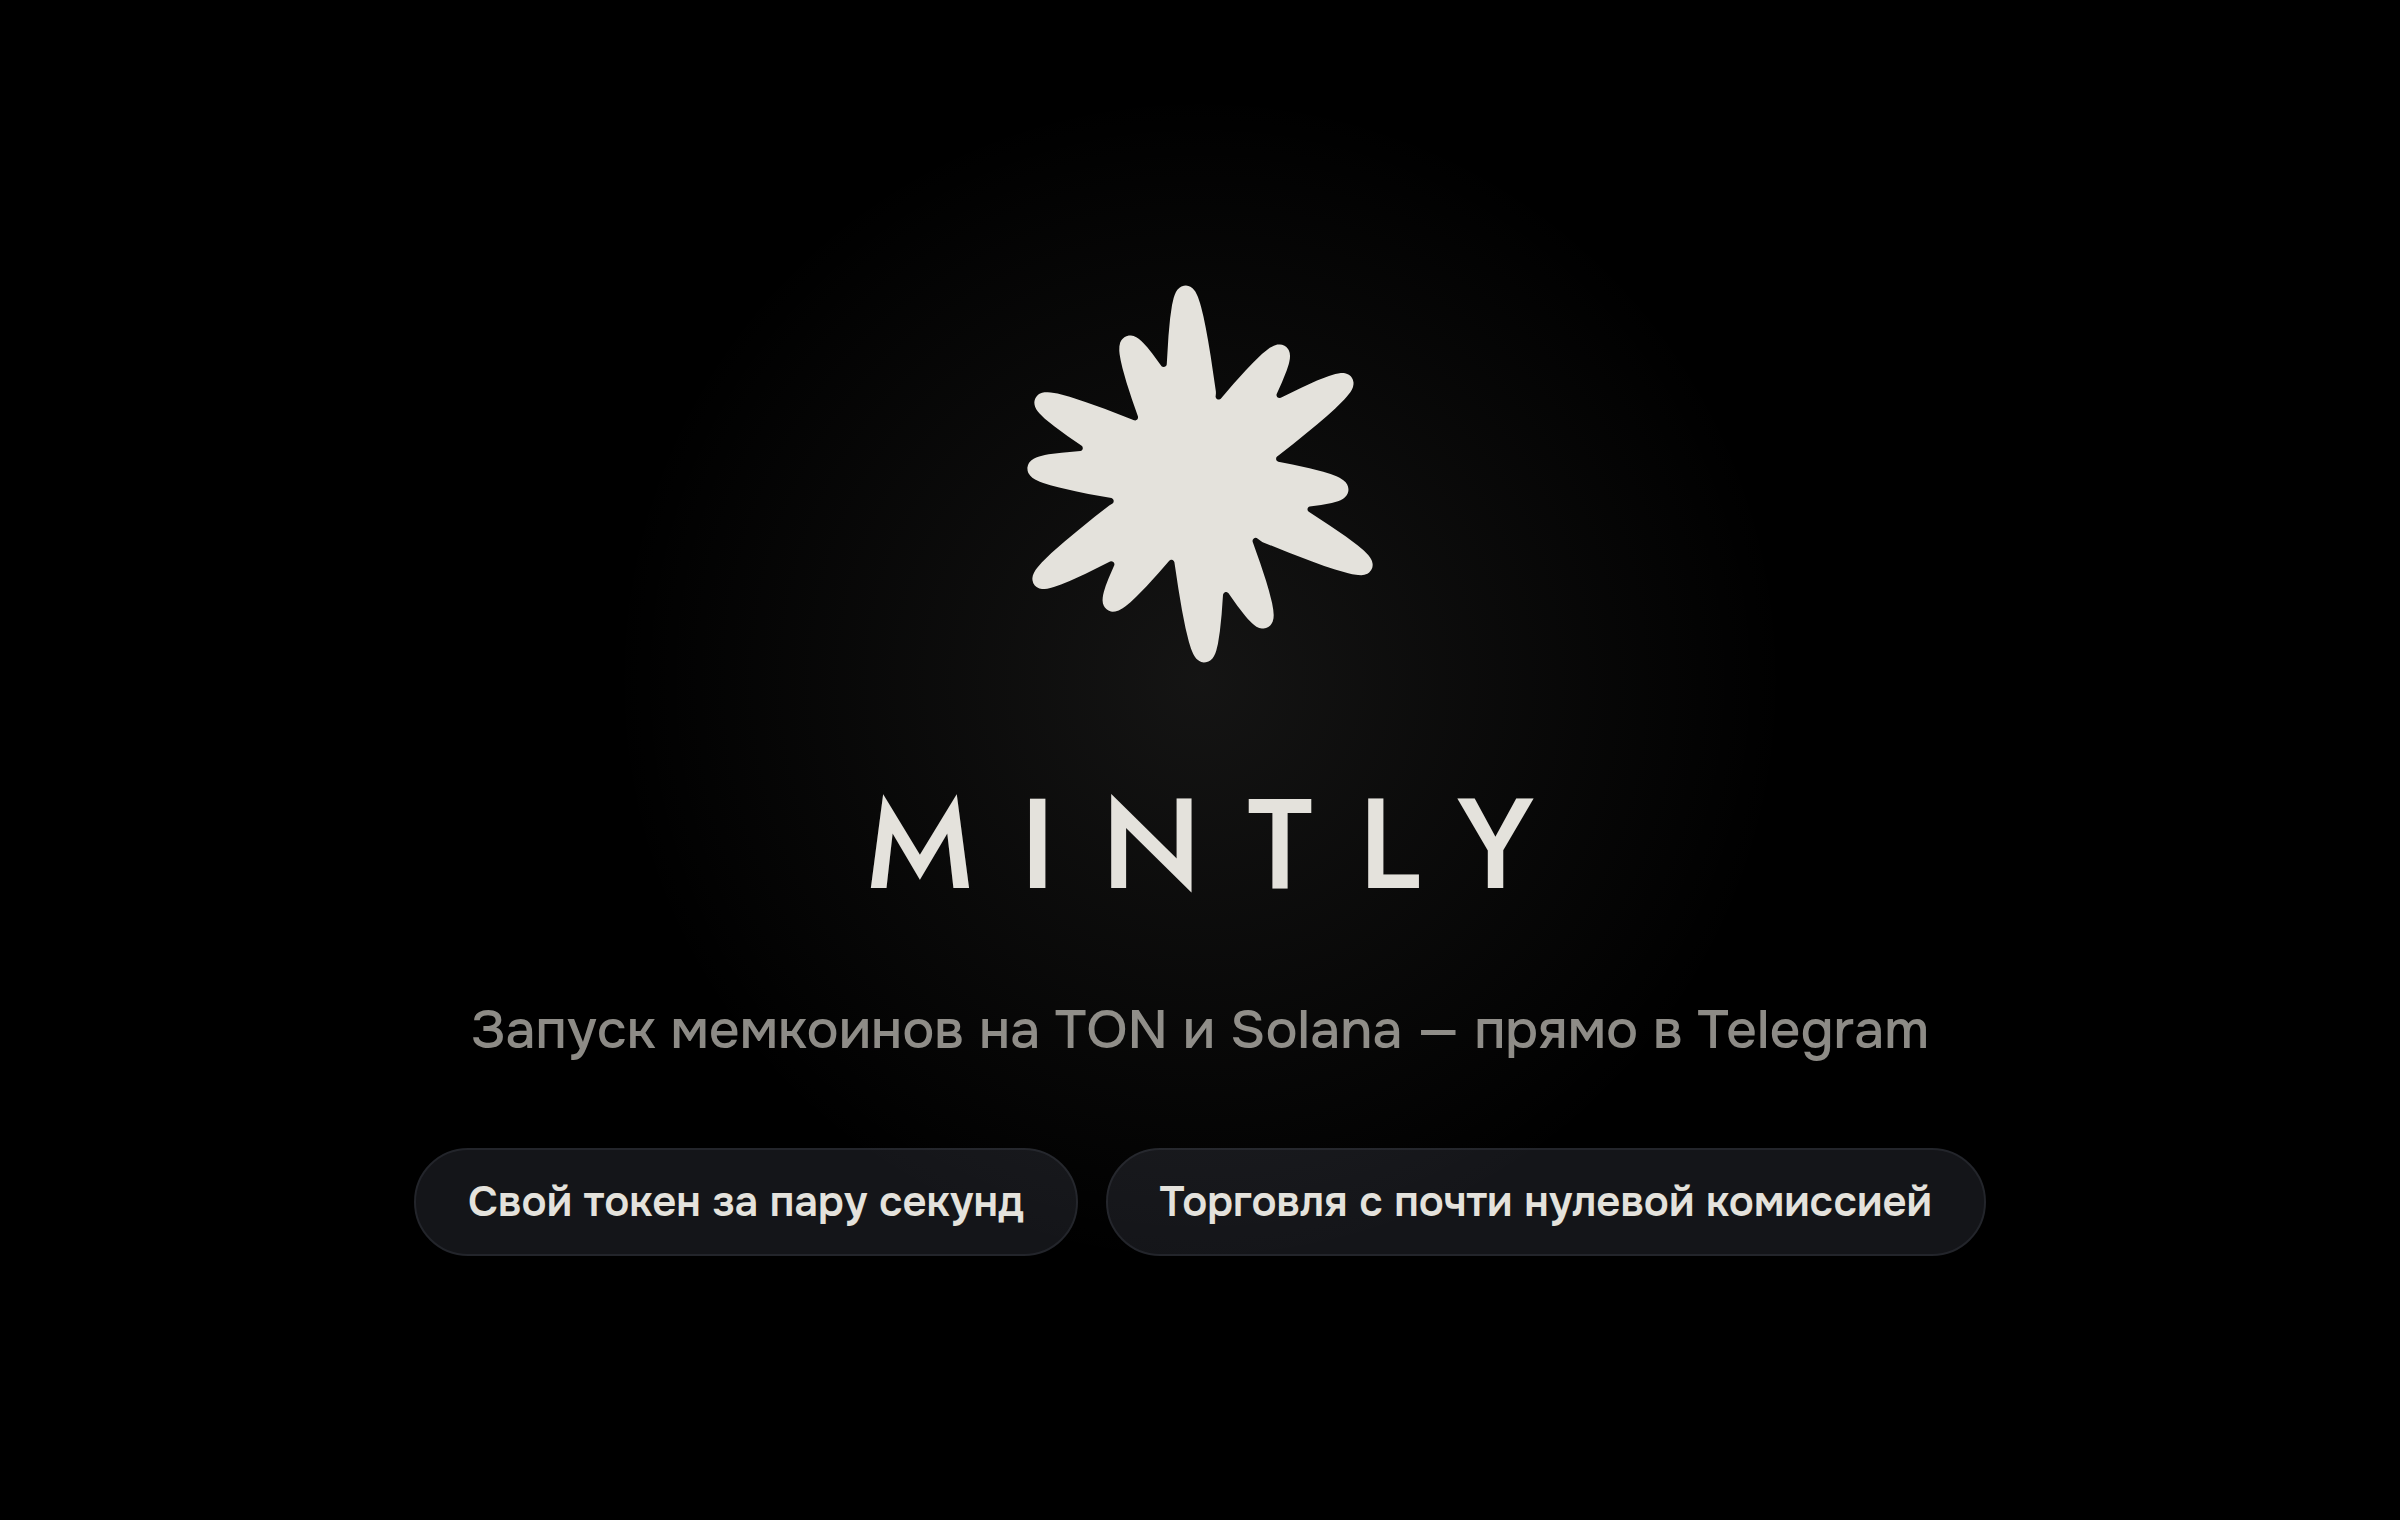
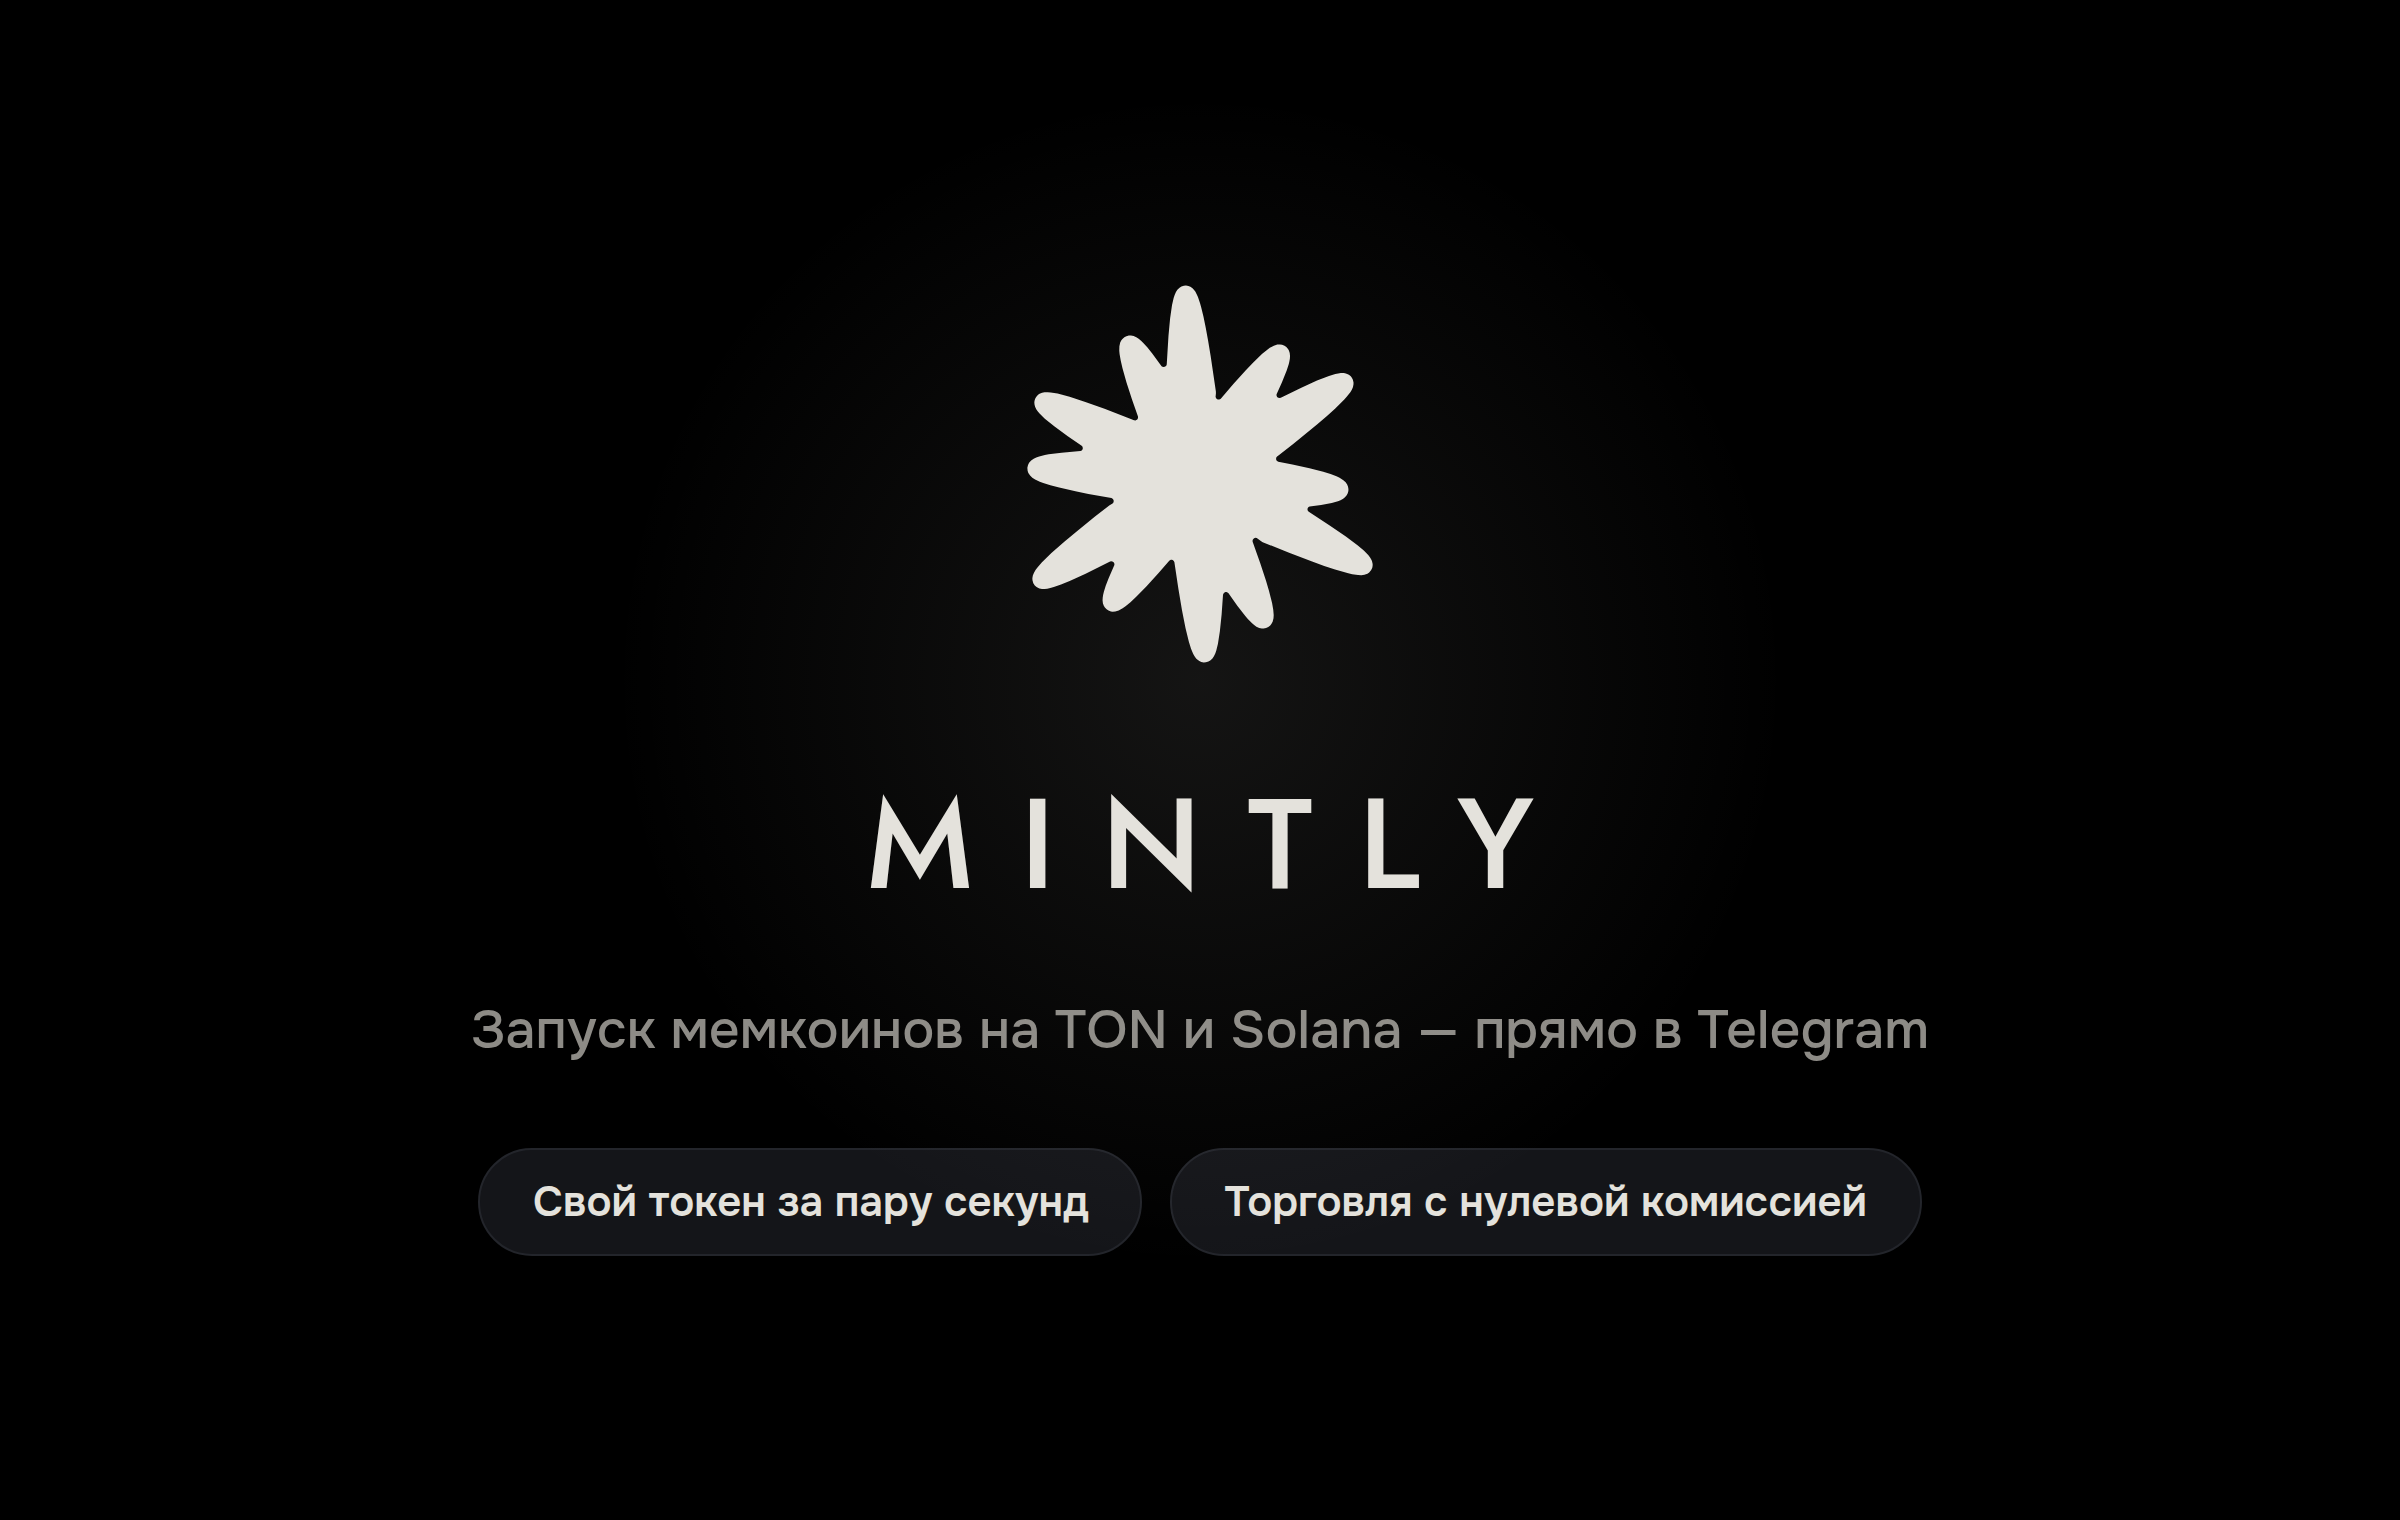
Картинка бота: «Торговля с нулевой комиссией»
Claude-Session: https://claude.ai/code/session_012dgtbmCBimMGEXv6Efga8R

Changed region(s): [[0.1562, 0.7421, 0.8438, 0.8349]]

diff --git a/api/telegram-bot.js b/api/telegram-bot.js
@@ -1746,7 +1746,7 @@ async function handleWalletSet(message, аргумент) {
 /* Telegram запоминает загруженное фото по ссылке и на ту же ссылку
    отдаёт старую картинку, сколько её ни перерисовывай. Поэтому в адресе
    стоит номер: перерисовал баннер — подними его на единицу. */
-const БАННЕР_ВЕРСИЯ = 15;
+const БАННЕР_ВЕРСИЯ = 16;
 
 // Номер картинки кошелька. Telegram кеширует фотографии по адресу
 // неделями: без него обновлённый баннер к людям не доходит.
